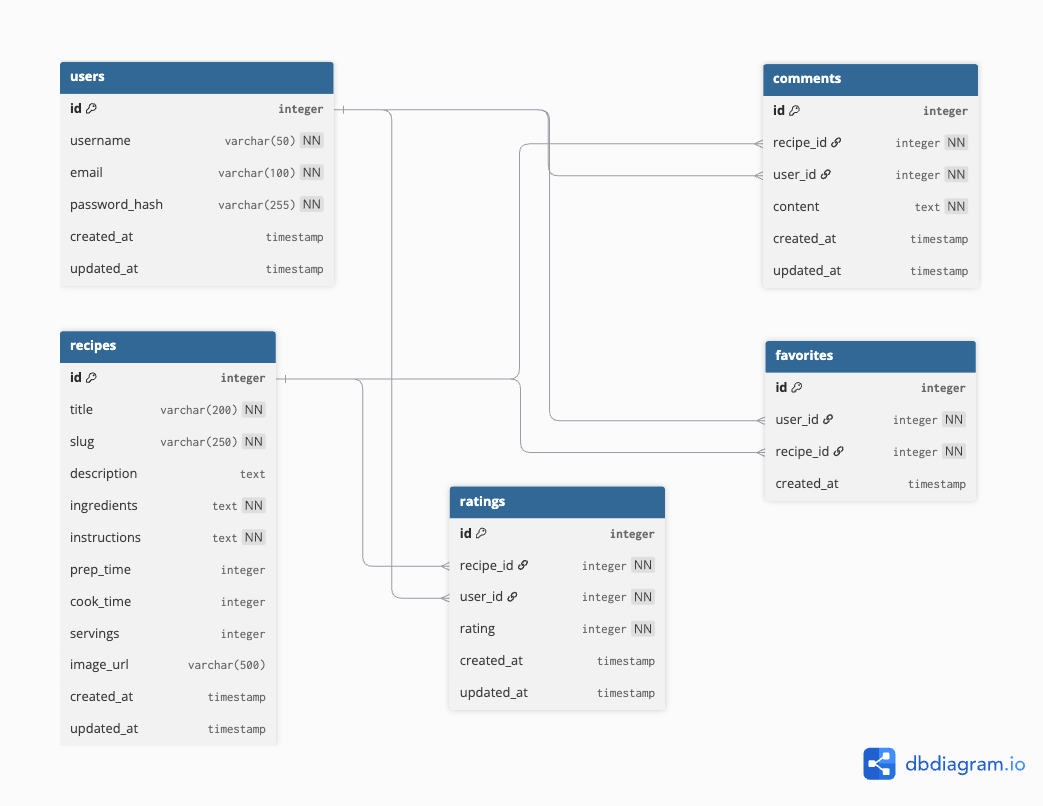
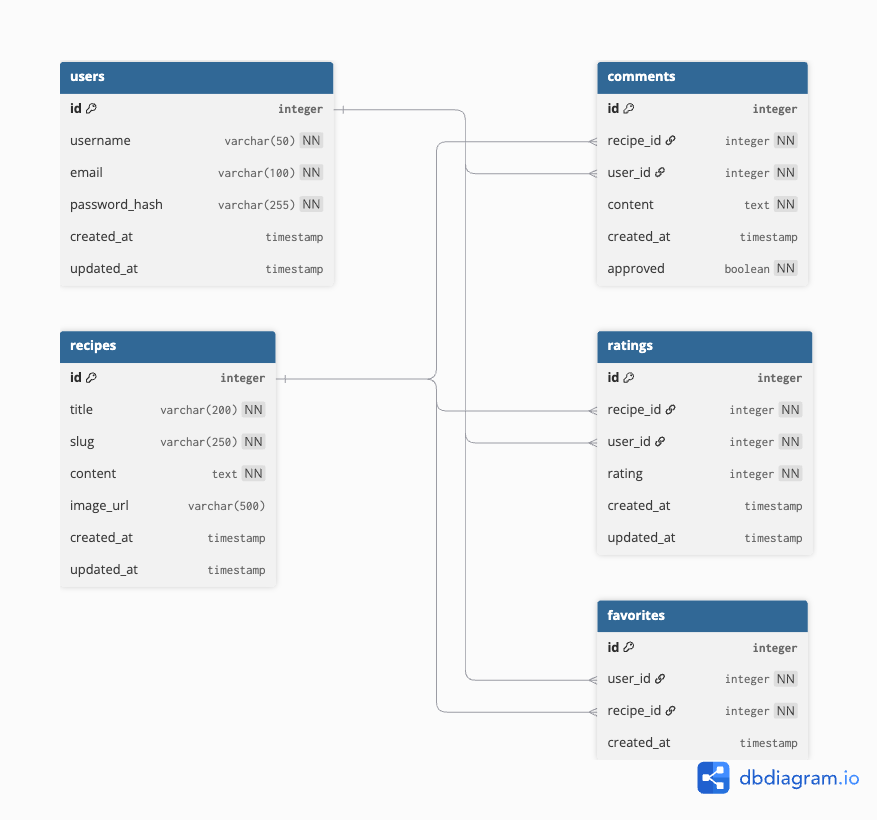
Add Comment model

diff --git a/recipes/migrations/0004_comment.py b/recipes/migrations/0004_comment.py
@@ -1,0 +1,27 @@
+# Generated by Django 4.2.27 on 2026-01-06 11:29
+
+from django.conf import settings
+from django.db import migrations, models
+import django.db.models.deletion
+
+
+class Migration(migrations.Migration):
+
+    dependencies = [
+        migrations.swappable_dependency(settings.AUTH_USER_MODEL),
+        ('recipes', '0003_rename_recipes_recipe'),
+    ]
+
+    operations = [
+        migrations.CreateModel(
+            name='Comment',
+            fields=[
+                ('id', models.BigAutoField(auto_created=True, primary_key=True, serialize=False, verbose_name='ID')),
+                ('content', models.TextField()),
+                ('created_at', models.DateTimeField(auto_now_add=True)),
+                ('approved', models.BooleanField(default=False)),
+                ('author', models.ForeignKey(on_delete=django.db.models.deletion.CASCADE, related_name='commenter', to=settings.AUTH_USER_MODEL)),
+                ('recipe', models.ForeignKey(on_delete=django.db.models.deletion.CASCADE, related_name='comments', to='recipes.recipe')),
+            ],
+        ),
+    ]

diff --git a/hk_recipes/settings.py b/hk_recipes/settings.py
@@ -27,7 +27,7 @@ BASE_DIR = Path(__file__).resolve().parent.parent
 SECRET_KEY = os.environ.get("SECRET_KEY")
 
 # SECURITY WARNING: don't run with debug turned on in production!
-DEBUG = False
+DEBUG = True
 
 ALLOWED_HOSTS = ['.herokuapp.com',
                  '127.0.0.1',]
@@ -90,6 +90,10 @@ DATABASES = {
     'default': dj_database_url.parse(os.environ.get("DATABASE_URL"))
 }
 
+CSRF_TRUSTED_ORIGINS = [
+    "https://*.codeinstitute-ide.net/",
+    "https://*.herokuapp.com"
+]
 
 # Password validation
 # https://docs.djangoproject.com/en/4.2/ref/settings/#auth-password-validators

diff --git a/recipes/models.py b/recipes/models.py
@@ -12,3 +12,11 @@ class Recipe(models.Model):
     created_at = models.DateTimeField(auto_now_add=True)
     updated_at = models.DateTimeField(auto_now=True)
     status = models.IntegerField(choices=STATUS, default=0)
+
+
+class Comment(models.Model):
+    recipe = models.ForeignKey(Recipe, on_delete=models.CASCADE, related_name='comments')
+    author = models.ForeignKey(User, on_delete=models.CASCADE, related_name='commenter')
+    content = models.TextField()
+    created_at = models.DateTimeField(auto_now_add=True)
+    approved = models.BooleanField(default=False)

diff --git a/recipes/migrations/0003_rename_recipes_recipe.py b/recipes/migrations/0003_rename_recipes_recipe.py
@@ -1,0 +1,17 @@
+# Generated by Django 4.2.27 on 2026-01-06 10:58
+
+from django.db import migrations
+
+
+class Migration(migrations.Migration):
+
+    dependencies = [
+        ('recipes', '0002_rename_recipe_recipes_content'),
+    ]
+
+    operations = [
+        migrations.RenameModel(
+            old_name='Recipes',
+            new_name='Recipe',
+        ),
+    ]

diff --git a/recipes/admin.py b/recipes/admin.py
@@ -1,5 +1,6 @@
 from django.contrib import admin
-from .models import Recipe
+from .models import Recipe, Comment
 
 # Register your models here.
 admin.site.register(Recipe)
+admin.site.register(Comment)
